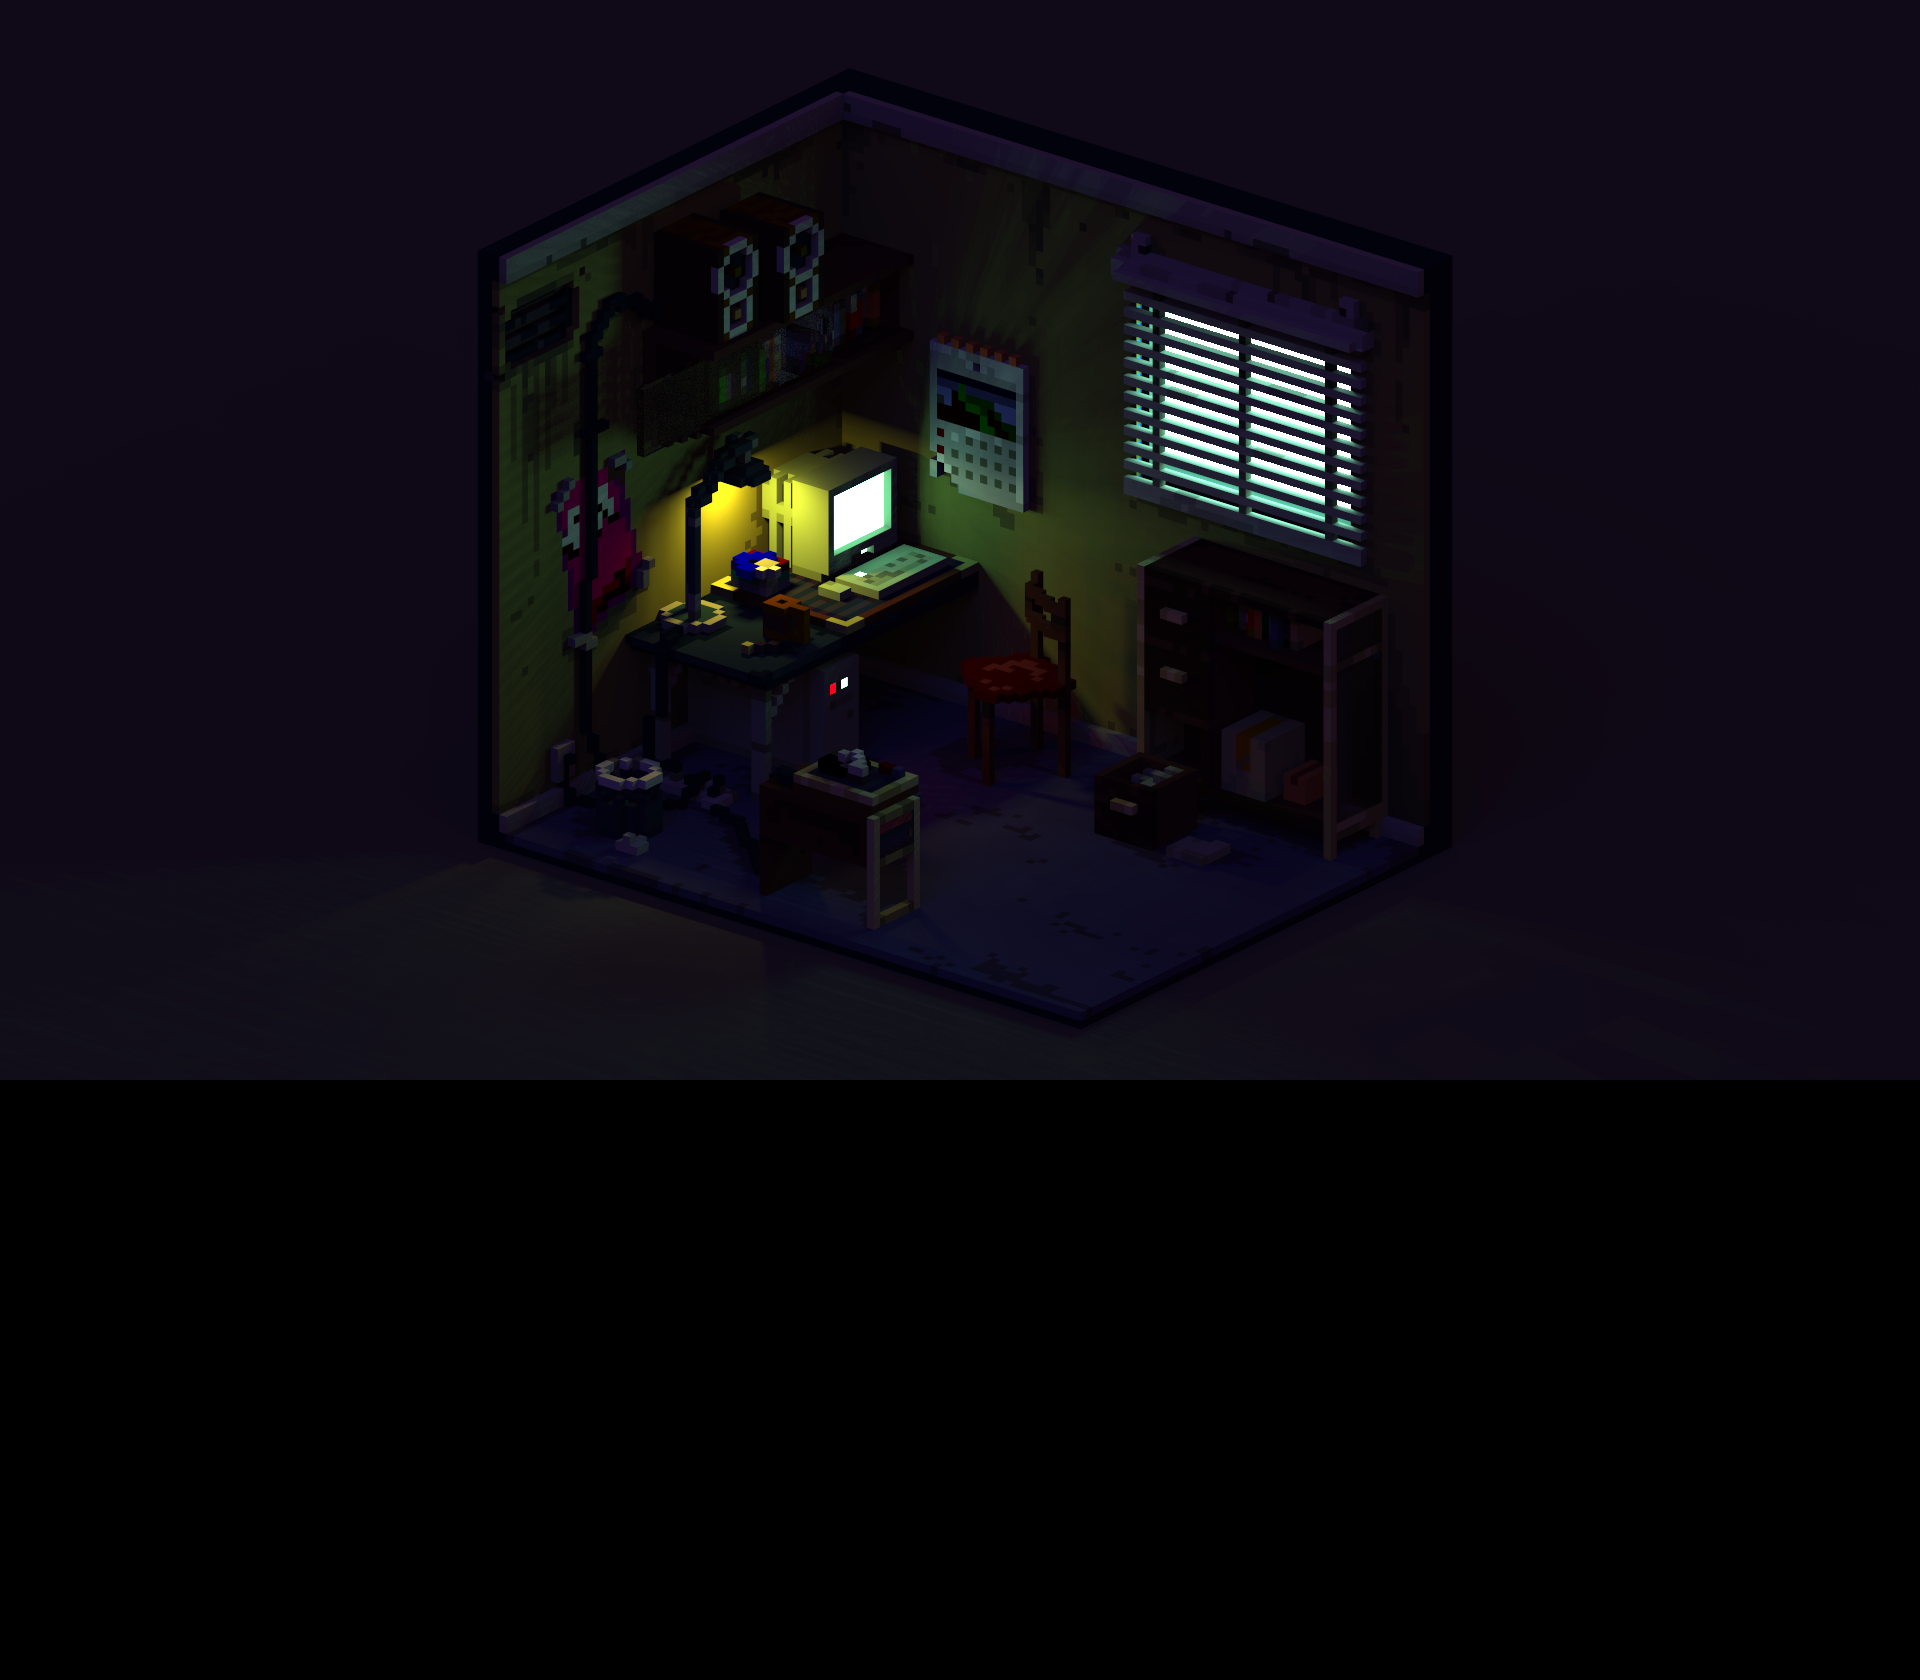
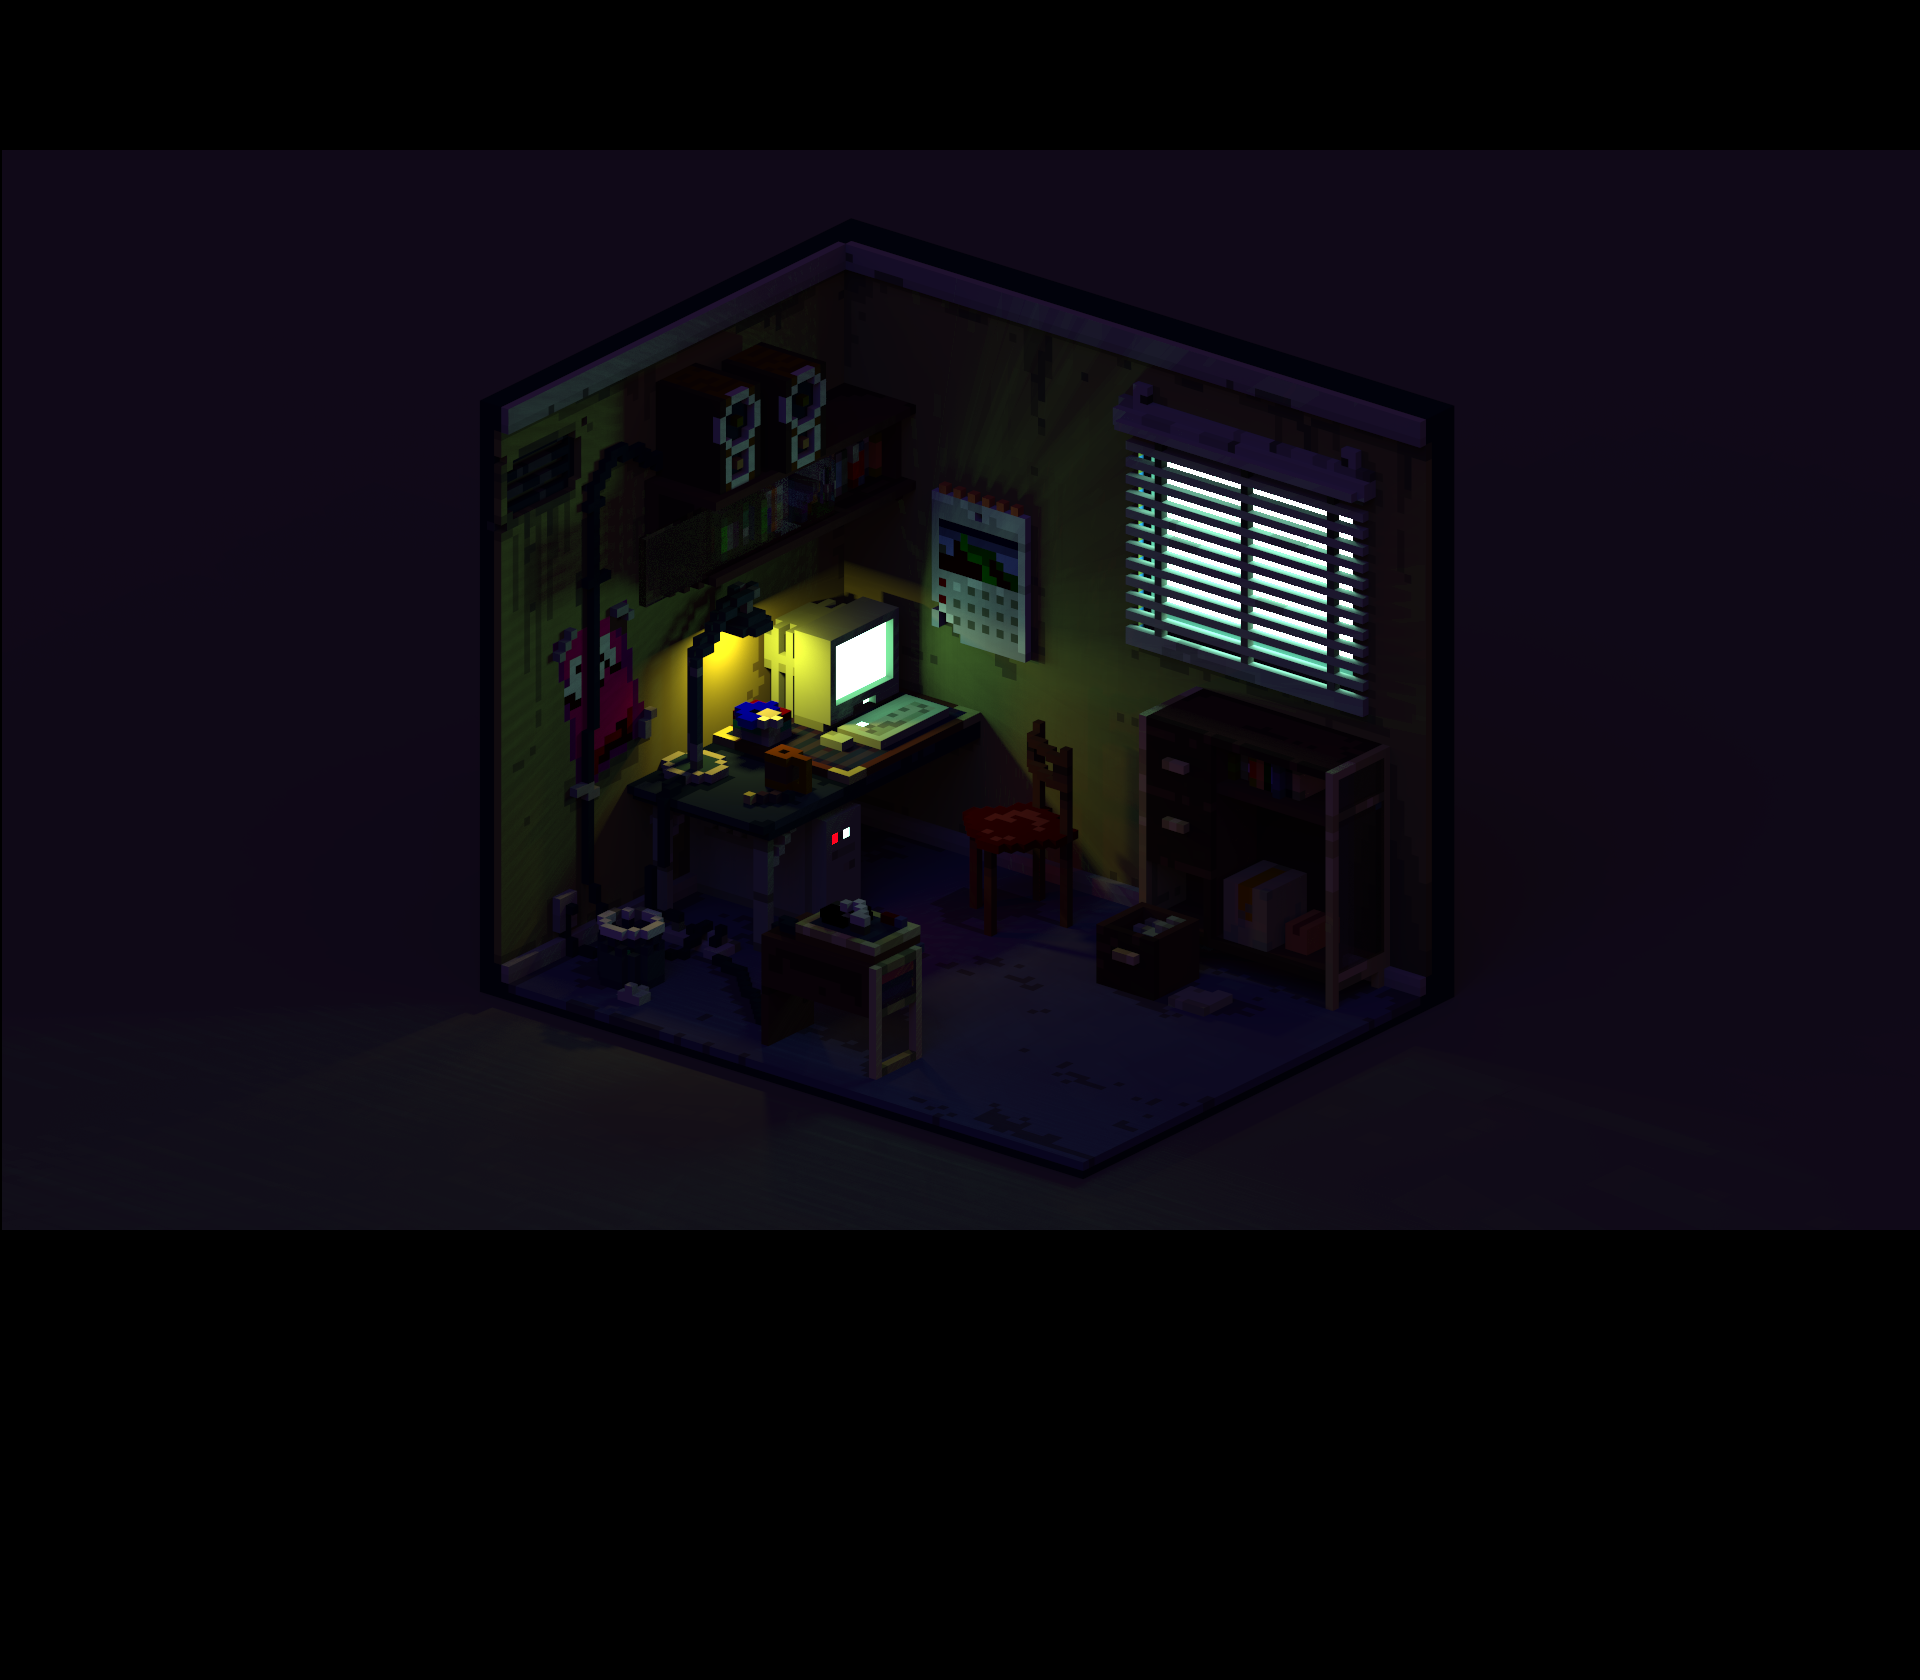
UPDATE container padding

Changed region(s): [[0.0, 0.0929, 0.7188, 0.7429], [0.375, 0.031, 0.5312, 0.0929], [0.5312, 0.1548, 0.5625, 0.1857]]

diff --git a/css/style.css b/css/style.css
@@ -291,7 +291,7 @@ nav li a:hover {
   flex-direction: column;
   justify-content: space-evenly;
   align-items: center;
-  padding: 6rem 0;
+  padding: 3rem 0;
 }
 
 .card-container {
